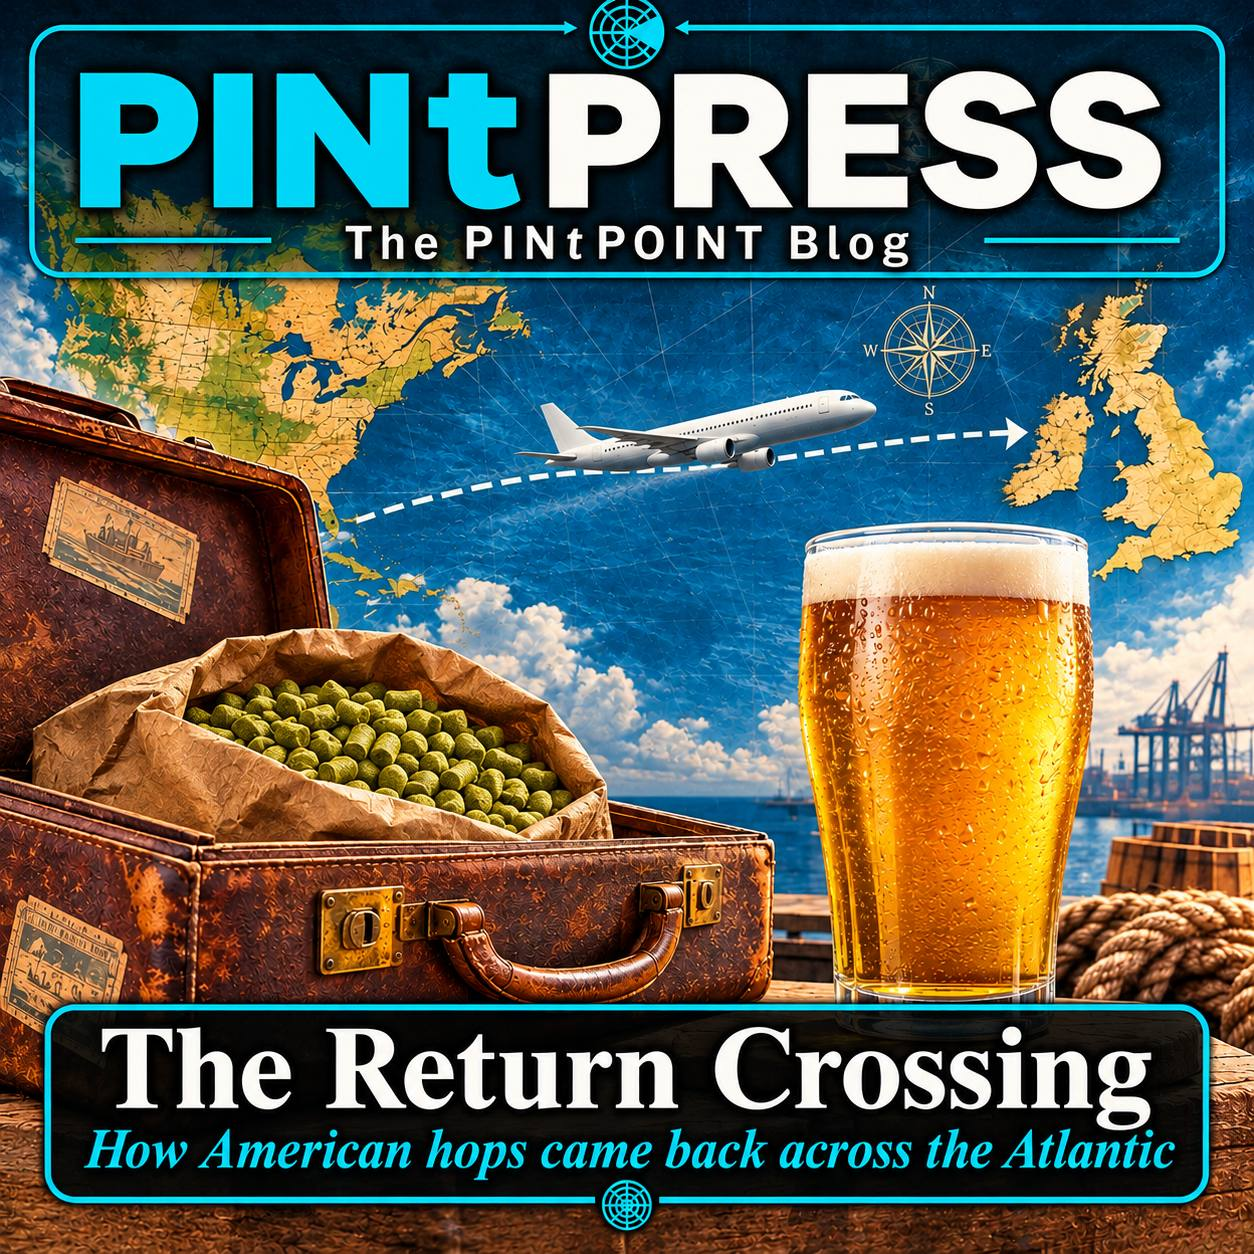
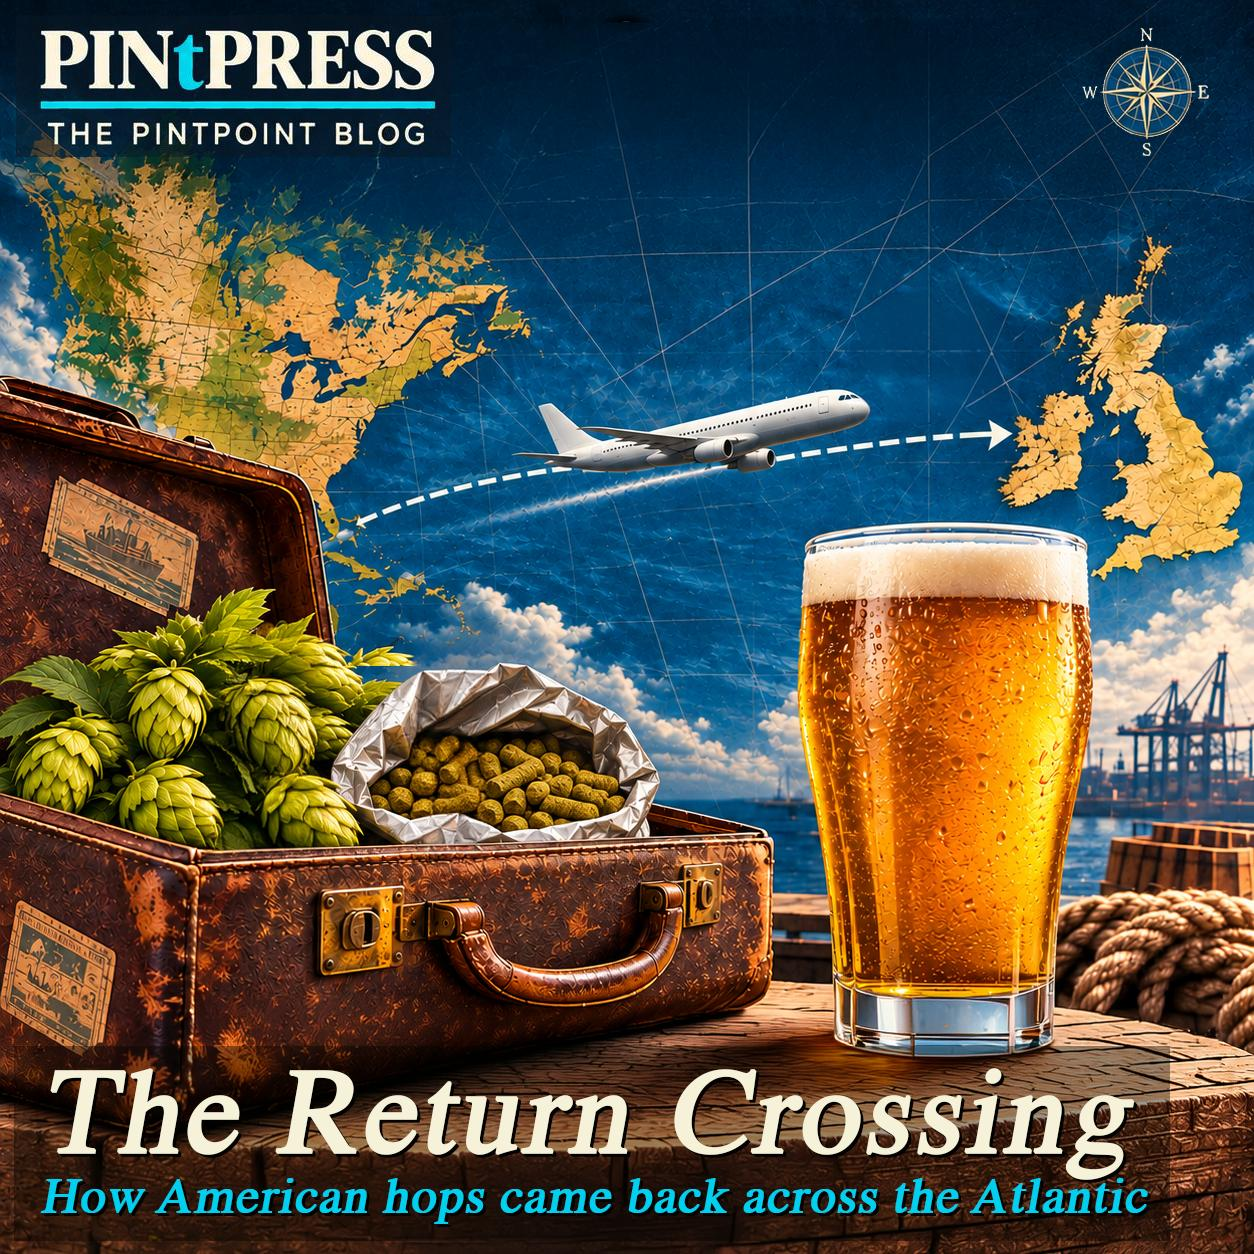
Return Crossing: new share card master
Replaces the card with the revised composition and updates og:image:alt
to the art it now describes.

diff --git a/blog/drafts/the-return-crossing.html b/blog/drafts/the-return-crossing.html
@@ -17,7 +17,7 @@
   <meta property="og:image:width" content="1254" />
   <meta property="og:image:height" content="1254" />
   <meta property="og:image:type" content="image/jpeg" />
-  <meta property="og:image:alt" content="PINtPRESS card: a battered leather suitcase open on a quayside with a paper sack of green hop pellets inside, a full pint glass beside it, and an airliner tracking east across a map of the Atlantic towards the British Isles, under the headline The Return Crossing." />
+  <meta property="og:image:alt" content="PINtPRESS card: a battered leather suitcase open on a quayside with whole green hops and a foil sack of pellets inside, a full pint glass beside it, and an airliner tracking east across a map of the Atlantic towards the British Isles, under the headline The Return Crossing." />
   <meta name="twitter:card" content="summary_large_image" />
   <meta name="twitter:title" content="How American hops came back across the Atlantic" />
   <meta name="twitter:image" content="https://pintpoint.co.uk/blog/images/the-return-crossing.jpg" />
